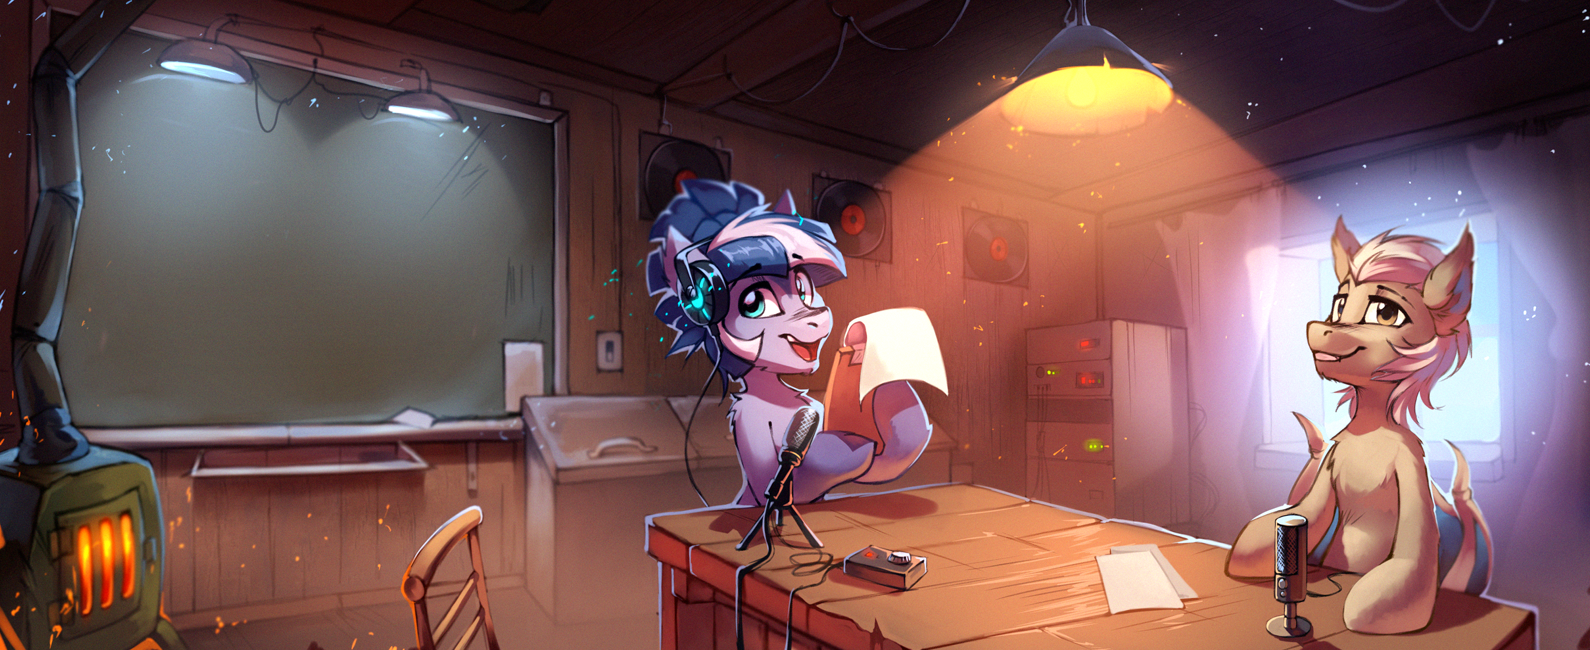
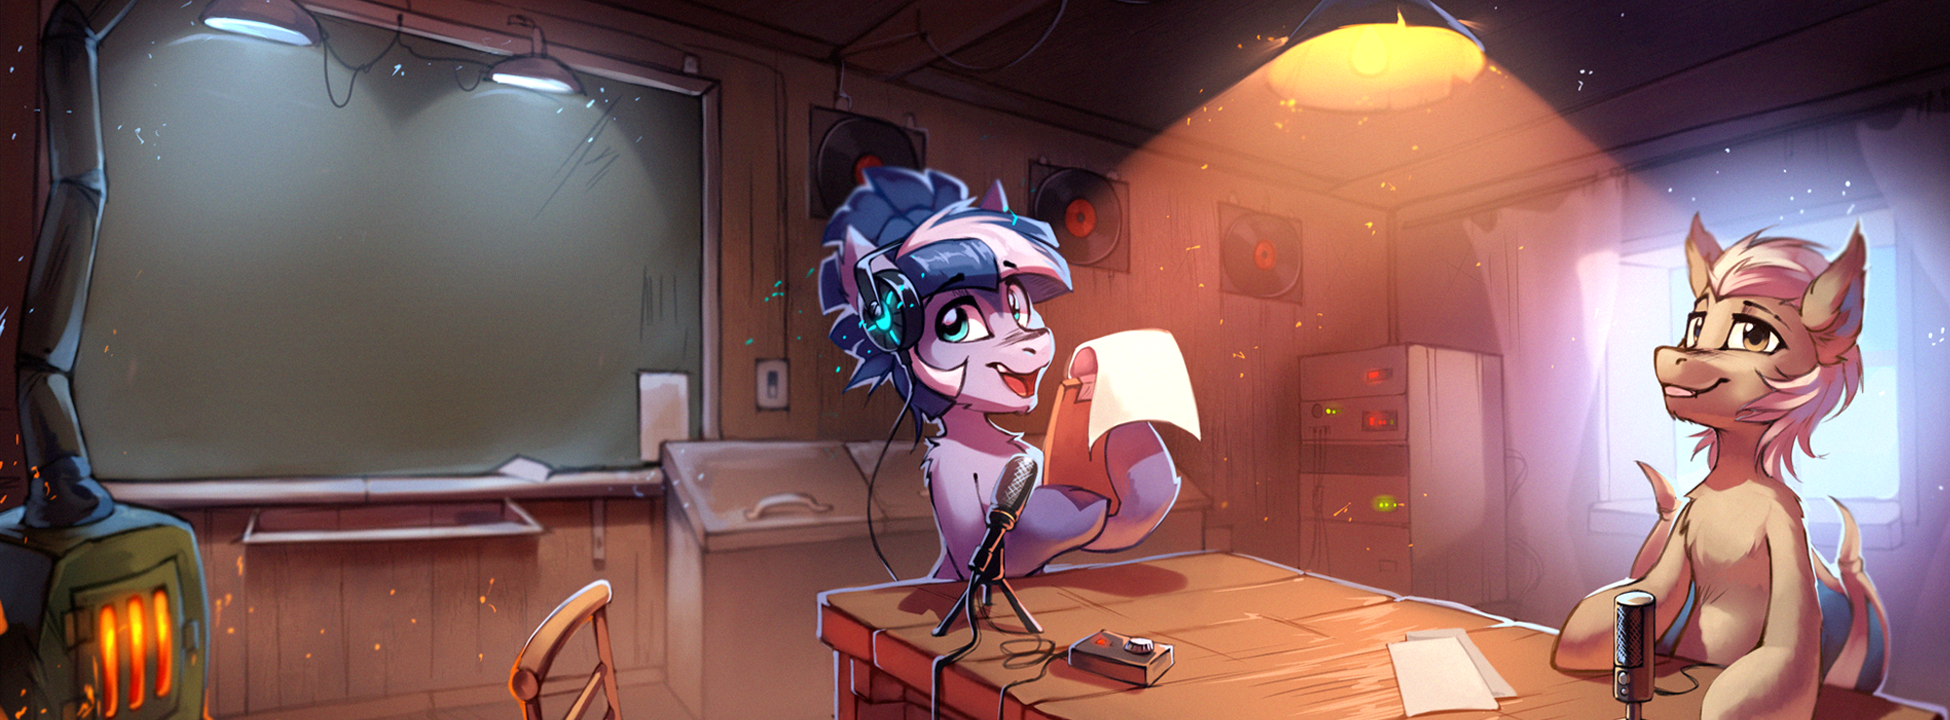
feat(preview): update preview images

diff --git a/pages/preview.vue b/pages/preview.vue
@@ -193,7 +193,7 @@ export default class PreviewPage extends Vue {
         key: 'tabun',
         name: 'Табун',
         image: require('~/assets/images/preview/tabun.png'),
-        size: '1590x650',
+        size: '1950x720',
       },
       {
         key: 'youtube_rc',
@@ -205,7 +205,7 @@ export default class PreviewPage extends Vue {
         key: 'tabun_rc',
         name: 'Табун КЧ',
         image: require('~/assets/images/preview/tabun_rc.png'),
-        size: '1590x650',
+        size: '1950x720',
       },
     ],
   };
@@ -362,12 +362,6 @@ export default class PreviewPage extends Vue {
       &_overlay
         mix-blend-mode overlay
 
-    &_type
-      &_tabun
-        top 94px
-        left 135px
-        zoom .79
-
   &__perspective
     position relative
     width 100%
@@ -384,6 +378,7 @@ export default class PreviewPage extends Vue {
     justify-content center
     align-items center
     flex-wrap wrap
+    flex-direction column
     font-family 'CoalhandLuke Pro', sans-serif
     font-size 80px
     text-align center
